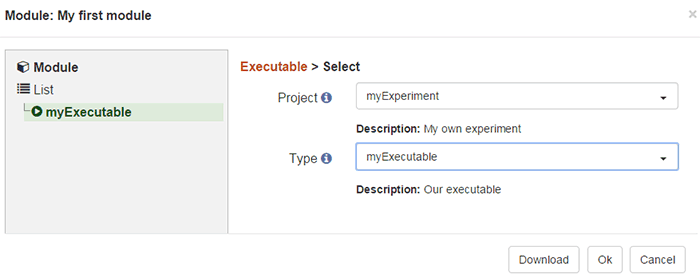
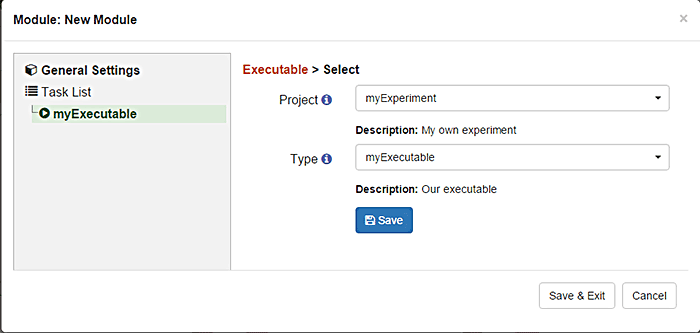
improve documentation

diff --git a/app/views/doc/dev-getting-started.html b/app/views/doc/dev-getting-started.html
@@ -25,7 +25,7 @@
 
 <p>Type the following command in your terminal window and make sure you get a response indicating your version of nodeJS. If you don't see the version of your nodeJS, something went wrong with your installation and you'll need to fix it first.</p>
 <pre><code class="language-javascript">$> node --version
-v0.10.35
+v4.2.6
 </code></pre>
 
 <hr class="hr-red">
@@ -36,7 +36,7 @@ v0.10.35
 
 <p>Type the following command in your terminal window and make sure you get a response indicating your version of Git. If you don't see the version, something went wrong with your installation and you'll need to fix it first.</p>
 <pre><code class="language-javascript">$> git version
-git version 1.8.0.msysgit.0
+git version 2.7.0.windows.1
 </code></pre>
 
 <hr class="hr-red">
@@ -56,7 +56,7 @@ MongoDB shell version: 3.0.4
 
 <h3 id="tatool">Install Tatool<span class="pull-right"><a href ng-click="scrollTo('top')"><i class="fa fa-caret-up fa-lg"></i></a></span></h3>
 
-<p><img src="../../images/app/tatool_logo.png" width="200"><br><br>Get the latest download of Tatool from our <a href="http://github.com/tatool/tatool-web" target="_blank">GitHub repository</a>. If you're familiar with Git, we recommend you clone the tatool-web repository, otherwise you can simply download a ZIP file by clicking on the "Download ZIP" button on the right hand side menu on GitHub.</p>
+<p><img src="../../images/app/tatool_logo.png" width="200"><br><br>Get the latest download of Tatool from our <a href="http://github.com/tatool/tatool-web" target="_blank">GitHub repository</a>. If you're familiar with Git, we recommend you clone the tatool-web repository, otherwise you can simply download a ZIP file by clicking on the "Download ZIP" button in the top menu on GitHub.</p>
 
 <p>After having downloaded/extracted the tatool-web code to where you want to run Tatool from, you'll have to run a few commands to properly install all dependencies.</p>
 
@@ -69,7 +69,7 @@ The second command checks whether your installation of bower was successful. If 
 <pre><code class="language-javascript">$tatool-web> npm install -g bower
 ...
 $tatool-web> bower -version
-1.4.1
+1.7.2
 </code></pre>
 
 <p><b>3.</b> Enter the first command to install the <b>gulp plugin</b> for nodejs. Gulp is used to build tatool-web.<br>
@@ -81,10 +81,20 @@ $tatool-web> gulp -version
 [20:38:17] Local version undefined
 </code></pre>
 
-<p><b>4.</b> Run <b>npm install</b> to install Tatool. The command will run bower to download all dependencies and gulp to build the code. On Mac OSX you might need to run this with the <b>sudo</b> command. The installation might take a while the first time.</p>
+<p><b>4.</b> Run <b>npm install</b> to install Tatool. The command will run bower to download all dependencies and gulp to build the code. On Mac OSX you might need to run this with the <b>sudo</b> command. The installation might take a while the first time. You might also need to run it twice for the first time to make sure everything gets downloaded and built.</p>
 <pre><code class="language-javascript">$tatool-web> npm install
 ...
 </code></pre>
+
+<div class="hint">
+  <div class="icon red"><i class="fa fa-lightbulb-o fa-2x"></i></div> 
+  <div class="text">
+    <p>In case you see a bunch of <b>ECONNRESET</b> error messages during your installation you can run the following command first to make sure node is using the correct URL to download all dependencies:
+    <pre><code class="language-javascript">npm config set registry http://registry.npmjs.org/
+</code></pre> </p>
+  </div>
+</div>
+
 
 <hr class="hr-red">
 
@@ -103,8 +113,9 @@ $mongodb\bin> mongod --dbpath [your data directory path]
 <pre><code class="language-javascript">$> cd tatool-web
 $tatool-web> npm start
 ...
-Running tatool in LAB mode.
+
 You can access tatool on hostname:3000
+Running tatool in LAB mode.
 </code></pre>
 
 <p><b>3.</b> Access your Tatool instance by opening the url <a href="http://127.0.0.1:3000" target="_blank">http://127.0.0.1:3000</a> in your browser. You should now see the Tatool start page.</p>

diff --git a/app/views/doc/dev-executable-templates.html b/app/views/doc/dev-executable-templates.html
@@ -91,7 +91,7 @@
 
 <p><b>1. </b> Copy/save the three Executable files into the Project executables sub-folder (<b>app/projects/public/myExperiment/executables</b>) of your local Tatool installation. If the folder is not yet available, make sure to complete the previous step of (<a ui-sref="doc({page: 'dev-executable-project.html'})">Setting up a Project</a>) first.</p>
 
-<p><b>2. </b> Login to your local Tatool with any user having the 'Editor' role (note that you might have to <a ui-sref="doc({page: 'dev-admin.html'})">add</a> such a user first). Once logged in, click on the 'Editor' tab in the top navigation. On the Editor page create a new Module and add a new Executable to the List Element. Change the Type of the Executable by clicking on the blue edit button. Choose the Project 'myExperiment' we just added before and select the 'myExecutable' Executable in the Type dropdown below. Press 'OK' twice to save the Module.</p>
+<p><b>2. </b> Login to your local Tatool with any user having the 'Editor' role (note that you might have to <a ui-sref="doc({page: 'dev-admin.html'})">add</a> such a user first). Once logged in, click on the 'Editor' tab in the top navigation. On the Editor page create a new Module and add a new Executable to the List Element. Change the Type of the Executable by clicking on the blue edit button. Choose the Project 'myExperiment' we just added before and select the 'myExecutable' Executable in the Type dropdown below. Press 'Save' and then 'Save & Exit ' to save the Module.</p>
 
 <p><img src="../../images/doc/screen-new-module-1.png" class="internal"></p>
 <p><img src="../../images/doc/screen-new-module-2.png" class="internal"></p>

diff --git a/app/views/doc/use-editor.html b/app/views/doc/use-editor.html
@@ -80,7 +80,7 @@ Private modules come also with a URL (click on <i>Show URL</i> to get your custo
 <p>You can export your module's settings as a JSON file, and import a module from a JSON file. To duplicate a module, simply export it to JSON and then import that file. You can then make whatever changes are necessary.</p>
 
 <p><b>How to export/backup your module as JSON</b><br>
-On the Editor screen, click on the <i>Edit</i> button of the module you want to export, then within the Edit interface for that module, click the <i>Download</i> button at the bottom. This will allow you to save a *.json file which contains all of your module's settings.</p>
+On the Editor screen, click on the <i>Edit</i> button of the module you want to export, then within the Edit interface for that module, click the <i>Download</i> button at the bottom of the General Settings view. This will allow you to save a *.json file which contains all of your module's settings.</p>
 
 <p>Note that the <i>Export</i> button on the Editor screen is for exporting your data, not your module's settings.</p>
 

diff --git a/app/views/documentation.html b/app/views/documentation.html
@@ -50,7 +50,7 @@
       <li ui-sref-active="active"><i class="fa fa-angle-right"></i> <a ui-sref="doc({page: 'lib-shifting.html'})">Shifting</a></li>
       <li ui-sref-active="active"><i class="fa fa-angle-right"></i> <a ui-sref="doc({page: 'lib-simon.html'})">Simon</a></li>
       <li ui-sref-active="active"><i class="fa fa-angle-right"></i> <a ui-sref="doc({page: 'lib-stroop.html'})">Stroop</a></li>
-      <li ui-sref-active="active"><i class="fa fa-angle-right"></i> <a ui-sref="doc({page: 'lib-tower-of-fame.html'})">Tower of Fame</a></li>
+      <!--<li ui-sref-active="active"><i class="fa fa-angle-right"></i> <a ui-sref="doc({page: 'lib-tower-of-fame.html'})">Tower of Fame</a></li>-->
       <br>
     </ul>
     <li ui-sref-active="active"><a ui-sref="doc({page: 'main-bat.html'})"><b>Task Batteries</b></a></li>
